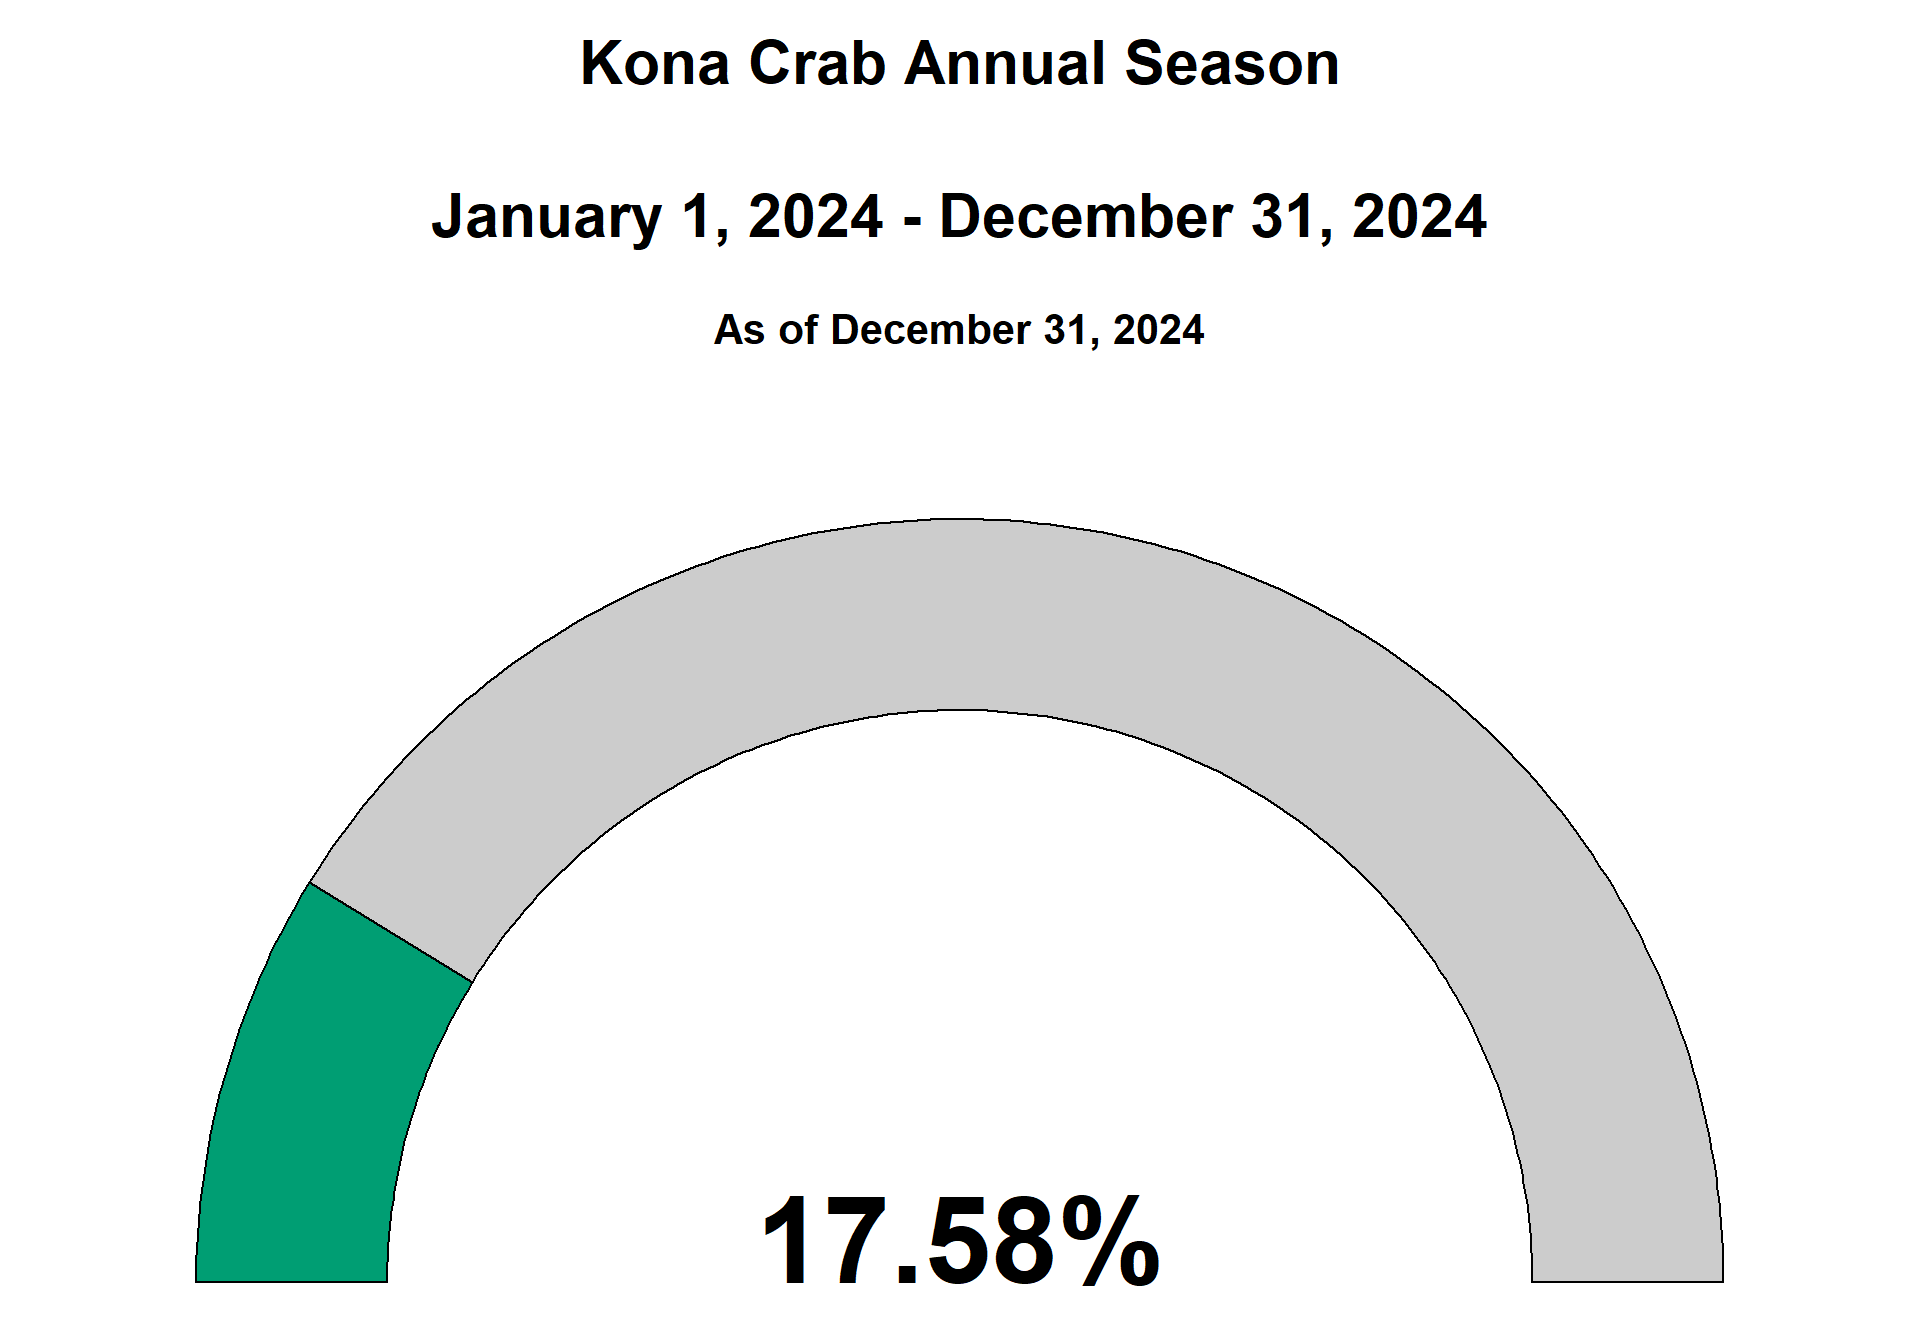
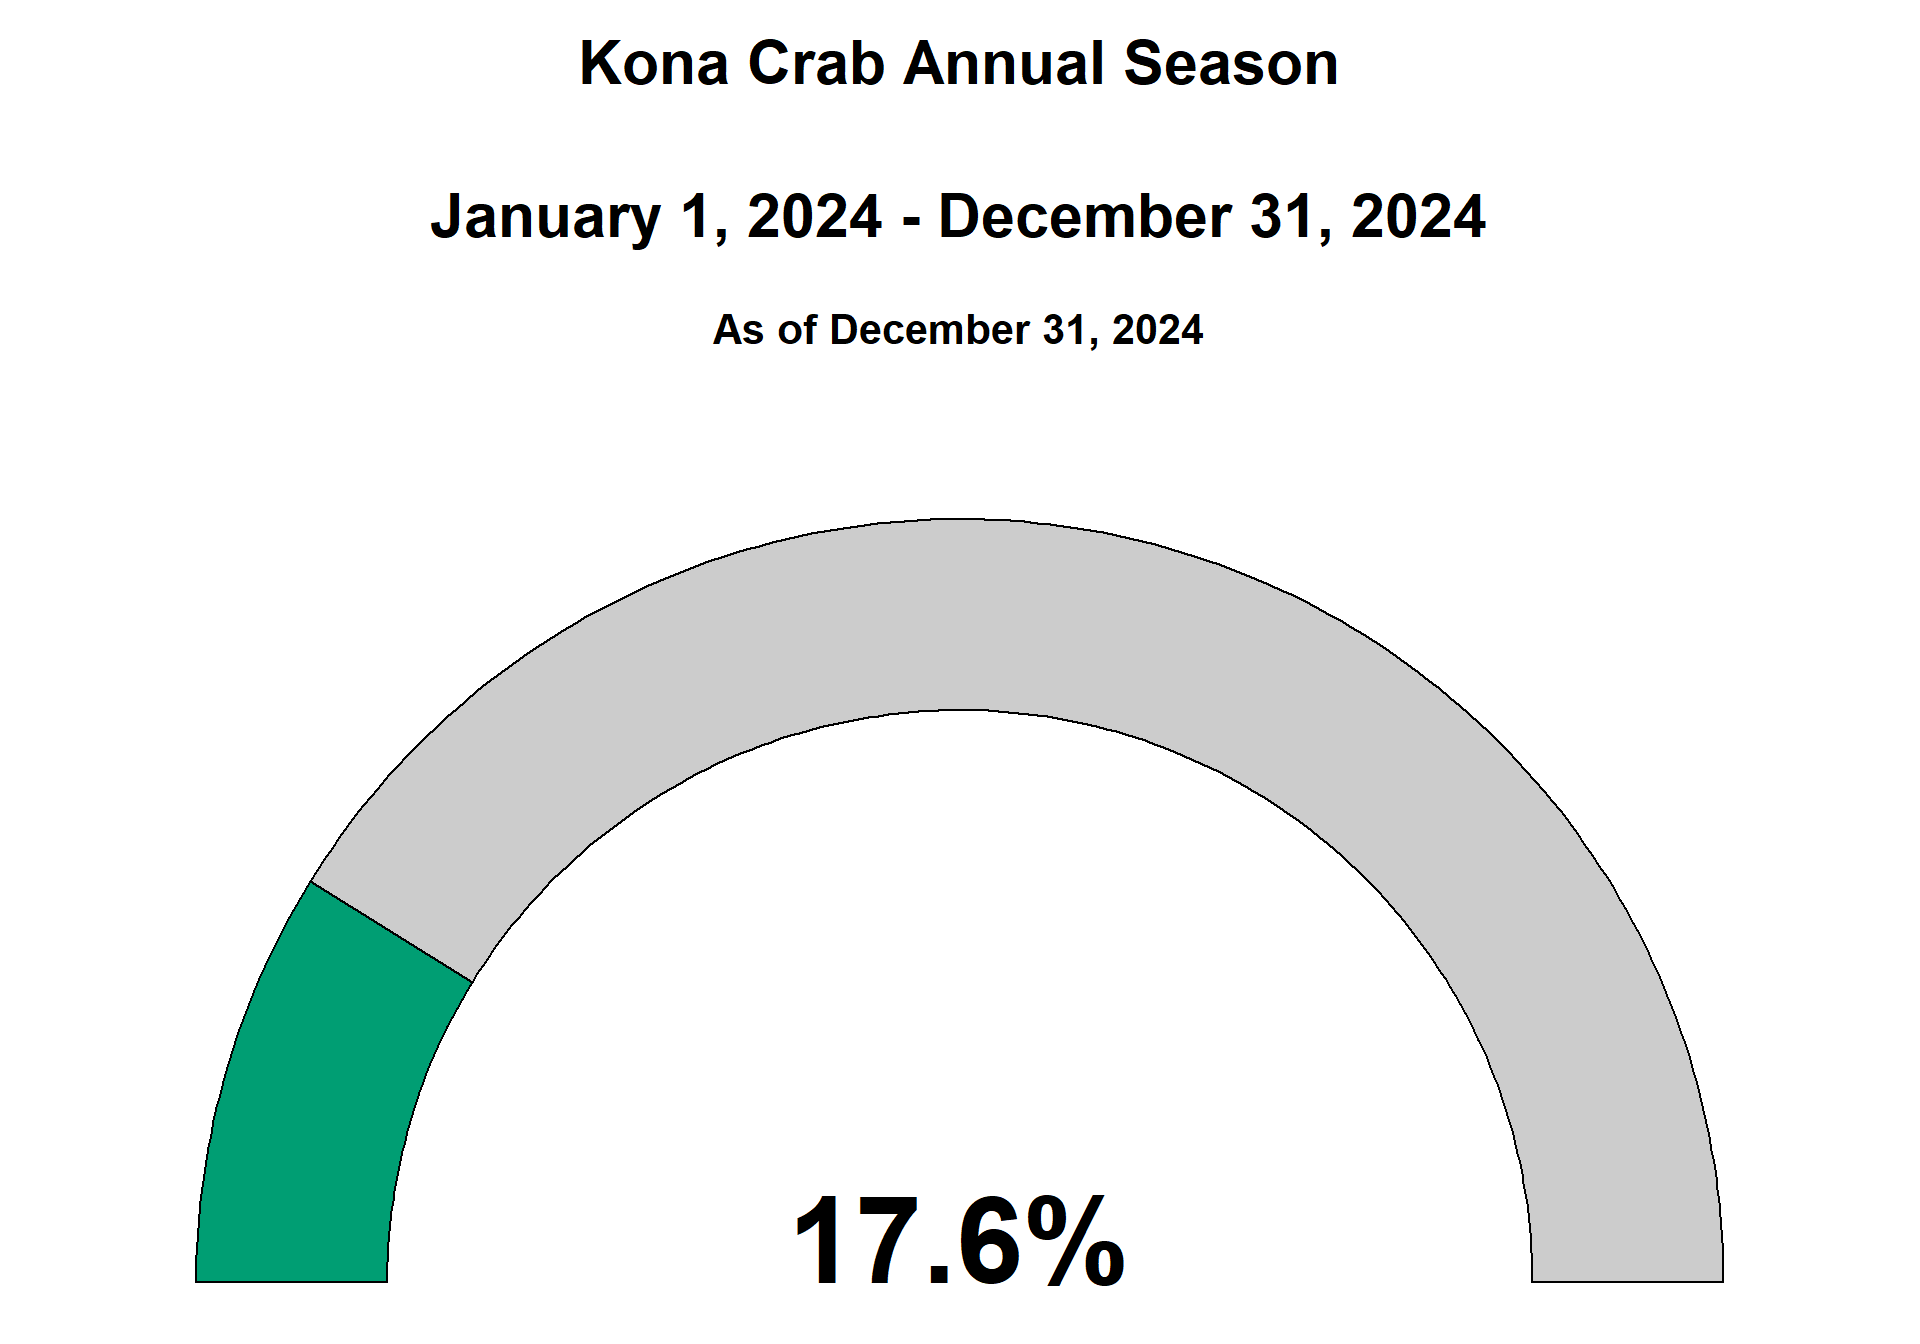
Adjust gauge formatting
Reduce gauge rounding to one decimal point instead of two.

diff --git a/Uku_KonaCrab_dashboard.html b/Uku_KonaCrab_dashboard.html
@@ -651,7 +651,7 @@ window.document.addEventListener("DOMContentLoaded", function (event) {
     <div class="nav-footer-left">
       <ul class="footer-items list-unstyled">
     <li class="nav-item">
- Uploaded on January 08, 2025
+ Uploaded on January 09, 2025
   </li>  
 </ul>
     </div>   

diff --git a/deep_seven_dashboard.html b/deep_seven_dashboard.html
@@ -667,7 +667,7 @@ window.document.addEventListener("DOMContentLoaded", function (event) {
     <div class="nav-footer-left">
       <ul class="footer-items list-unstyled">
     <li class="nav-item">
- Uploaded on January 08, 2025
+ Uploaded on January 09, 2025
   </li>  
 </ul>
     </div>   

diff --git a/index.html b/index.html
@@ -654,7 +654,7 @@ window.document.addEventListener("DOMContentLoaded", function (event) {
     <div class="nav-footer-left">
       <ul class="footer-items list-unstyled">
     <li class="nav-item">
- Uploaded on January 08, 2025
+ Uploaded on January 09, 2025
   </li>  
 </ul>
     </div>   

diff --git a/kala_uhu_dashboard.html b/kala_uhu_dashboard.html
@@ -651,7 +651,7 @@ window.document.addEventListener("DOMContentLoaded", function (event) {
     <div class="nav-footer-left">
       <ul class="footer-items list-unstyled">
     <li class="nav-item">
- Uploaded on January 02, 2025
+ Uploaded on January 09, 2025
   </li>  
 </ul>
     </div>   
